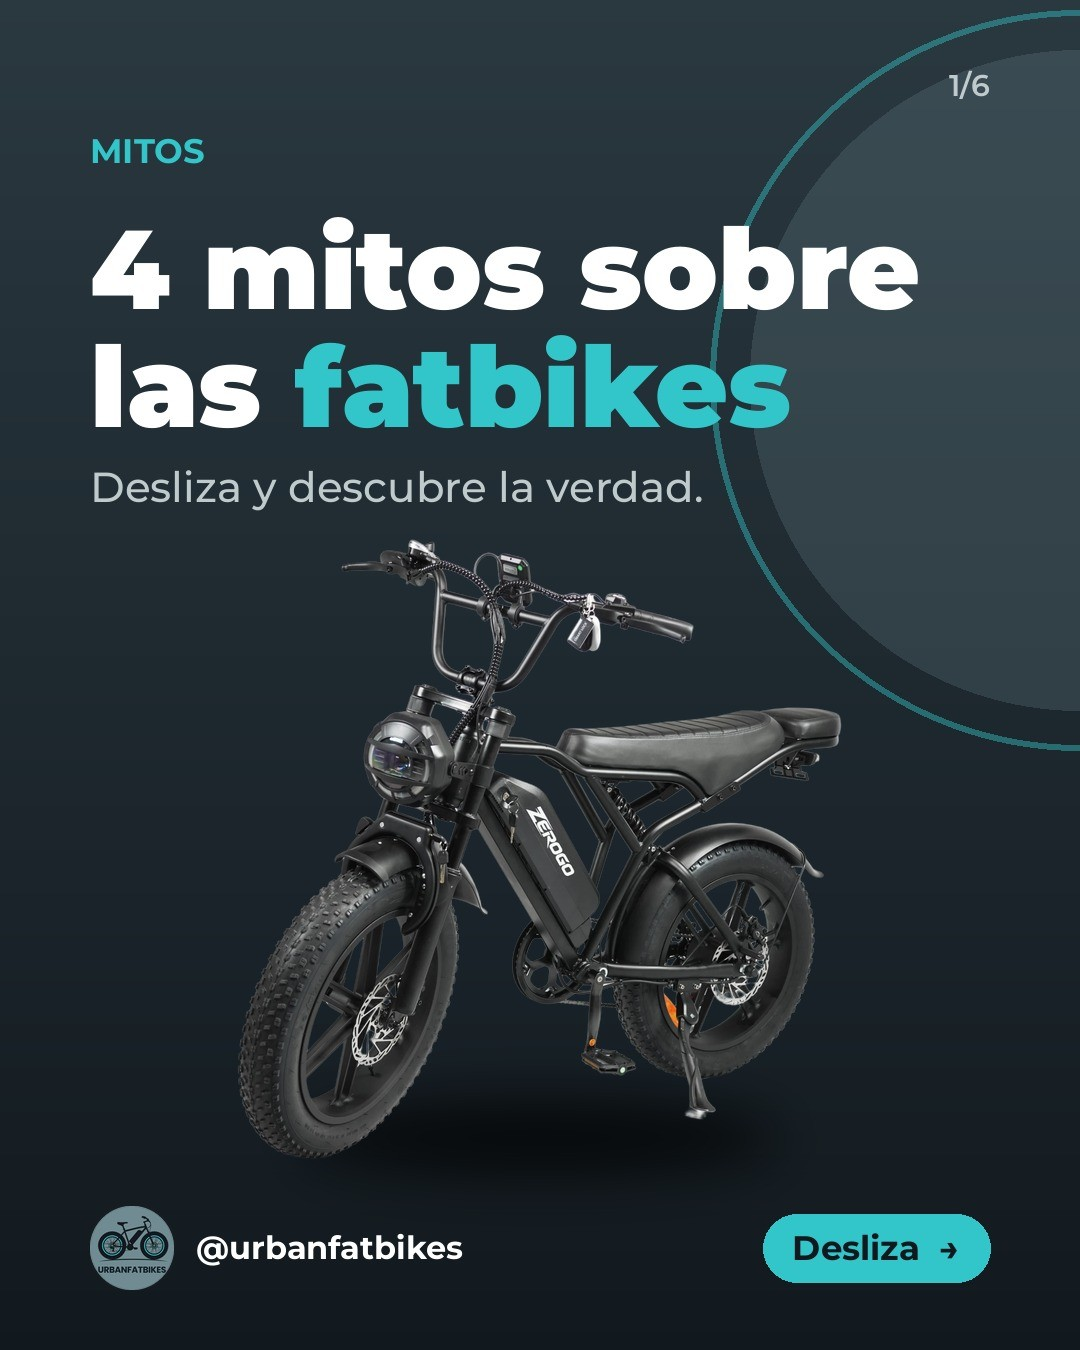
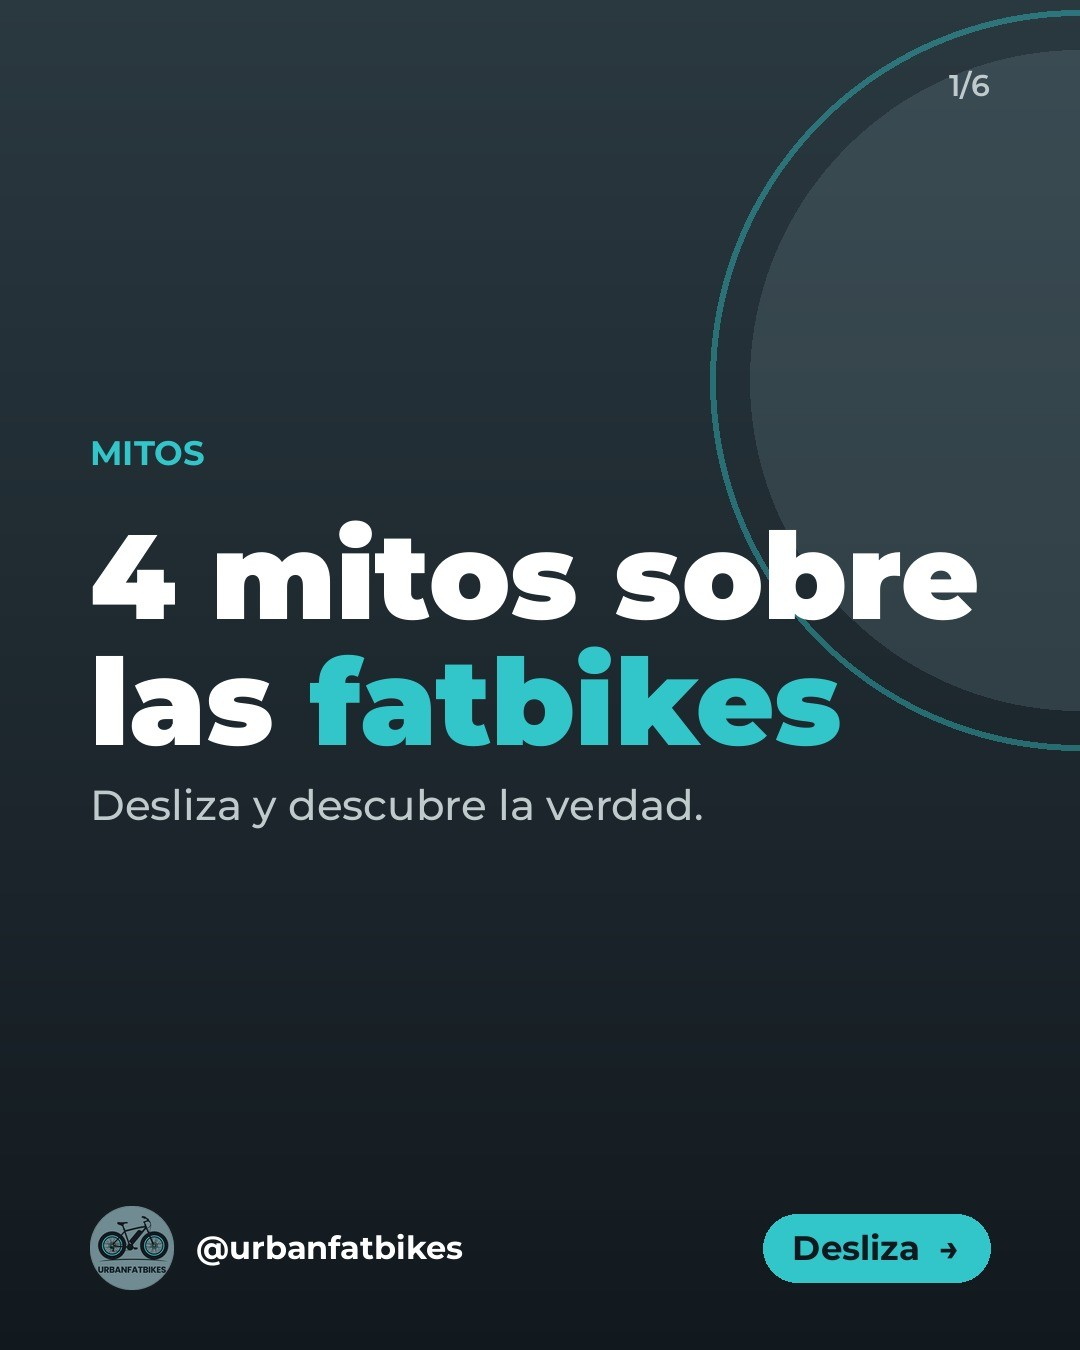
Foto de la bici solo en «¿Qué es una fatbike?»; memoria: Claude decide la estrategia, objetivo alcance
Claude-Session: https://claude.ai/code/session_01V1XNpUbkNZwBBpJpojktBy

Changed region(s): [[0.0611, 0.1556, 0.9167, 0.8711], [0.0611, 0.0933, 0.1833, 0.1244]]

diff --git a/CLAUDE.md b/CLAUDE.md
@@ -11,6 +11,13 @@ Léelo al empezar cualquier sesión. Resume lo que Sergio y Claude han decidido.
   Sergio ya tiene 3 bicis (una dañada en un accidente).
 - Quiere que Claude lleve las redes al 100 % y le autoriza a **unir las PR** él mismo.
 - Objetivo y plan: `OBJETIVOS.md` (20 bicis vendidas en junio de 2028).
+- **Claude decide solo** el contenido y la estrategia de redes (temas, formatos, fechas, qué foto o vídeo
+  usar), sin preguntarle cada cosa, teniendo en cuenta al consumidor español, la competencia y la
+  actualidad (normativa, noticias, temporada). A Sergio solo se le pide lo que solo él puede hacer
+  (grabar voz o vídeo, responder comentarios, mensajes a terceros) y se le informa con un resumen corto.
+- **Objetivo ahora: que nos conozca gente (alcance).** Priorizar lo que se comparte y se reenvía,
+  ganchos en los 3 primeros segundos, reels para descubrir y carruseles para guardar. Sin repetir la
+  misma foto en muchas publicaciones.
 
 ## Normas de la marca (siempre)
 - Tono profesional y de confianza, **solo en español**.
